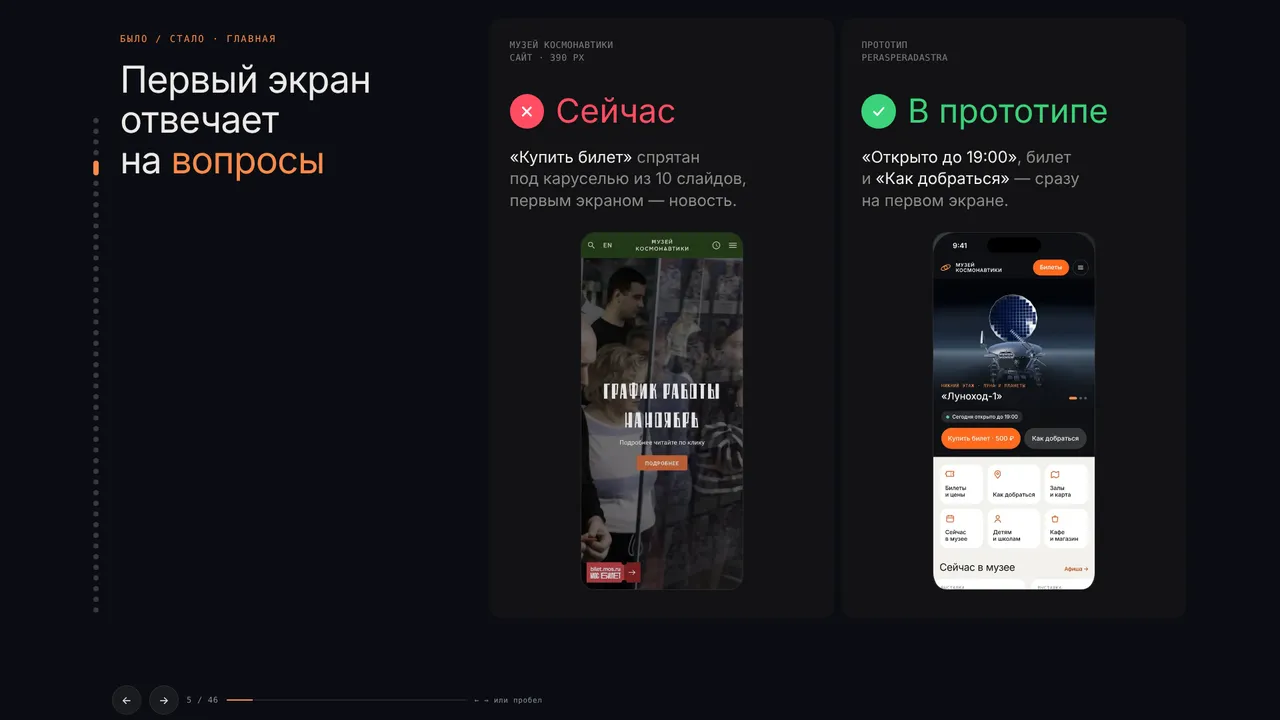
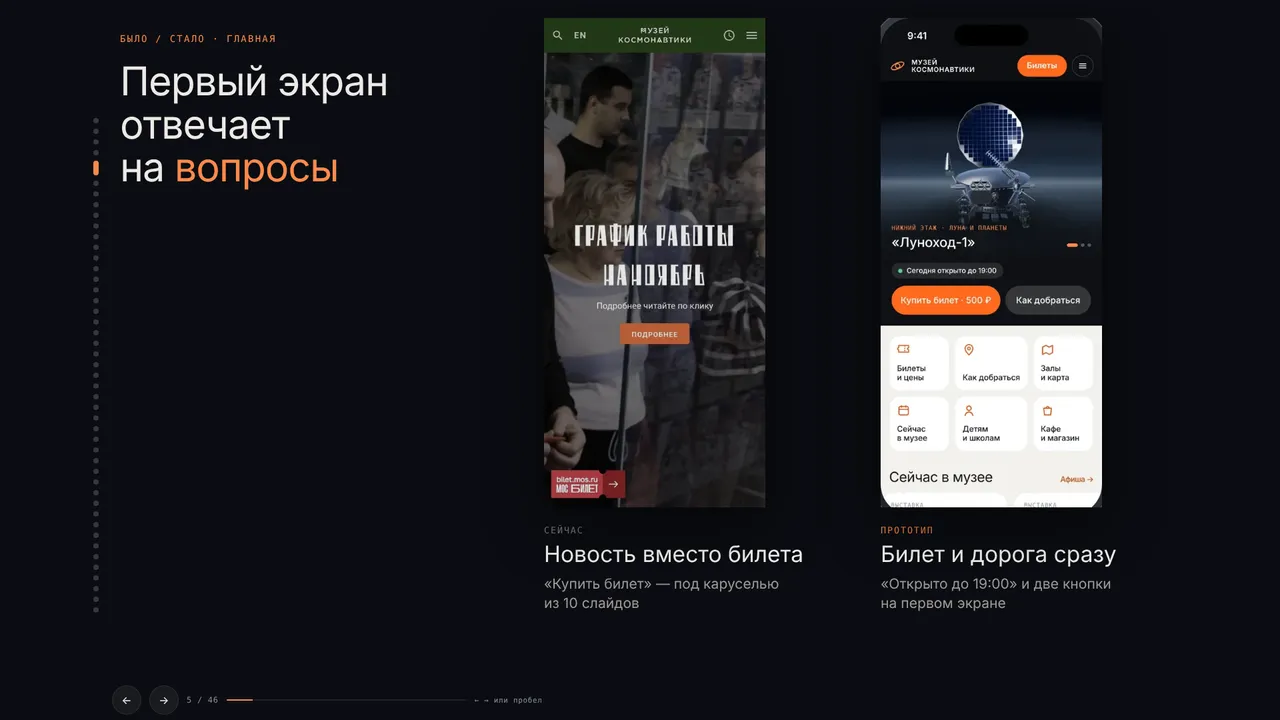
deck: было/стало без подложек — крупные экраны справа, подписи снизу
Claude-Session: https://claude.ai/code/session_01YJBZo4ctwu5nXZDRpFLjgU

Changed region(s): [[0.375, 0.0, 0.625, 0.8556], [0.6562, 0.0306, 0.875, 0.8556], [0.0938, 0.0917, 0.3125, 0.275]]

diff --git a/kosmo-museum/deck/index.html b/kosmo-museum/deck/index.html
@@ -198,20 +198,19 @@ h2{font-size:clamp(36px,3.1vw,60px);max-width:20ch}
 .qr{display:flex;align-items:center;gap:24px;margin-top:28px}.qr img{width:150px;height:150px;background:#fff;border-radius:16px;padding:10px}.qr span{font-size:20px;color:#C9C7C2}
 .logos{display:flex;flex-wrap:wrap;gap:12px;align-content:end;justify-content:flex-end}.logos span{padding:16px 24px;border:1px solid var(--line);border-radius:999px;font-size:clamp(17px,1.3vw,22px);color:#E3E0DA}
 
-/* v6: было/стало по шаблону «Плохо и хорошо с верхним отступом» */
-.ch:has(.cmp3){--u:min(1vw,1.78vh);padding:calc(1*var(--u)) 0 calc(4.2*var(--u))!important;gap:0}
-.cmp3{flex:1;min-height:0;display:grid;grid-template-columns:1.05fr 1fr 1fr;gap:calc(.5*var(--u));width:100%;max-width:none}
+/* v7: было/стало без подложек — крупные экраны справа, описание под каждым */
+.ch:has(.cmp3){--u:min(1vw,1.78vh);padding:calc(1*var(--u)) 0 calc(4.6*var(--u))!important;gap:0}
+.cmp3{flex:1;min-height:0;display:grid;grid-template-columns:minmax(0,.9fr) minmax(0,1.5fr);gap:calc(3*var(--u));width:100%;max-width:none}
 .cl{padding-top:calc(1.2*var(--u))}
-.cph{margin:calc(1.2*var(--u)) 0 0!important;font-size:calc(2.9*var(--u))!important;line-height:1.08!important;max-width:13ch!important}
-.cp{position:relative;border-radius:calc(1*var(--u));background:#121214;padding:calc(1.6*var(--u)) calc(1.6*var(--u)) 0;display:flex;flex-direction:column;min-height:0;overflow:hidden}
-.cpk{font:500 calc(.7*var(--u))/1.45 var(--m);letter-spacing:.04em;color:rgba(255,255,255,.45)}
-.cpt{display:flex;align-items:center;gap:calc(.9*var(--u));font:400 calc(2.6*var(--u))/1 var(--f);margin:calc(2.3*var(--u)) 0 calc(1.4*var(--u))}
-.cpt b{flex:none;width:calc(2.7*var(--u));height:calc(2.7*var(--u));border-radius:50%;display:grid;place-items:center}.cpt b svg{width:55%;height:55%}
-.cpt.bad{color:#FF4D62}.cpt.bad b{background:#FF4D62}.cpt.good{color:#3BD27A}.cpt.good b{background:#3BD27A}
-.cpd{margin:0;font-size:calc(1.25*var(--u));line-height:1.35;color:#8E8C88;max-width:30ch}.cpd w{color:#F2F0EC}
-.cpi{flex:1;min-height:0;display:flex;justify-content:center;align-items:flex-start;margin-top:calc(1.6*var(--u));padding-bottom:calc(2.2*var(--u))}
-.cpi img{height:100%;max-width:70%;object-fit:contain;object-position:top;border-radius:calc(1.1*var(--u));border:1px solid rgba(255,255,255,.1);display:block}
-.cp:nth-child(2) .cpi img{filter:saturate(.8) brightness(.9)}
+.cph{margin:calc(1.2*var(--u)) 0 0!important;font-size:calc(3.1*var(--u))!important;line-height:1.08!important;max-width:13ch!important}
+.cr{display:grid;grid-template-columns:1fr 1fr;gap:calc(2.4*var(--u));min-height:0}
+.cf{margin:0;display:flex;flex-direction:column;min-height:0}
+.cf img{flex:1;min-height:0;width:100%;object-fit:contain;object-position:left bottom;border-radius:0;display:block;filter:drop-shadow(0 24px 40px rgba(0,0,0,.5))}
+.cf:not(.ac) img{filter:saturate(.8) brightness(.9) drop-shadow(0 24px 40px rgba(0,0,0,.5))}
+.cf figcaption{margin-top:calc(1.4*var(--u));display:grid;gap:calc(.5*var(--u))}
+.cf .tag{font:500 calc(.7*var(--u)) var(--m);letter-spacing:.14em;text-transform:uppercase;color:rgba(255,255,255,.45)}.cf .tag.ac{color:var(--ac)}
+.cf b{font:400 calc(1.75*var(--u))/1.15 var(--f);color:#F2F0EC}
+.cf p{margin:0;font-size:calc(1.1*var(--u));line-height:1.4;color:#9E9B96;max-width:30ch}
 </style>
 
 <div class="wrap">
@@ -230,10 +229,10 @@ h2{font-size:clamp(36px,3.1vw,60px);max-width:20ch}
 <div class="kick">Что мешает на телефоне</div><h2>Пять проблем на экране 390 px</h2><div class="probs"><div class="prob"><b>9</b><span>пунктов в меню, и «Билетов» среди них нет</span><div class="vz vmenu"><i></i><i></i><i></i><i></i><i></i><i></i><i></i><i></i><i></i><i class="miss">Билеты?</i></div></div><div class="prob"><b>7</b><span>шагов и два сайта до оплаты</span><div class="vz vsteps"><i></i><i></i><i></i><i></i><i></i><i></i><i></i><em>→</em><i class="ok"></i><i class="ok"></i><i class="ok"></i><i class="ok"></i></div></div><div class="prob"><b>13</b><span>одинаковых кнопок, цены — в PDF</span><div class="vz vbtn"><i></i><i></i><i></i><i></i><i></i><i></i><i></i><i></i><i></i><i></i><i></i><i></i><i></i></div></div><div class="prob"><b>5,5 МБ</b><span>весит главная на телефоне</span><div class="vz vmb"><i style="width:94%"></i><i class="r" style="width:6%"></i></div><div class="vzl"><span>фото 5,2</span><span>0,3</span></div></div><div class="prob"><b>15</b><span>экранов в одной статье вместо каталога</span><div class="vz vscr"><i></i><i></i><i></i><i></i><i></i><i></i><i></i><i></i><i></i><i></i><i></i><i></i><i></i><i></i><i></i></div></div></div><p class="note">Проверено 14.11.2026 на 390×844, путь в кассе — до формы покупателя, без оплаты</p>
 </section>
 <section class="ch" data-cap="Сайт" data-wide="1">
-<div class="cmp3"><div class="cl"><div class="kick">Было / стало · главная</div><h2 class="cph">Первый экран отвечает<br>на <em>вопросы</em></h2></div><div class="cp"><div class="cpk">МУЗЕЙ КОСМОНАВТИКИ<br>САЙТ · 390 PX</div><div class="cpt bad"><b><svg viewBox="0 0 24 24"><path d="M7 7l10 10M17 7L7 17" stroke="#fff" stroke-width="2.4" stroke-linecap="round"/></svg></b>Сейчас</div><p class="cpd"><w>«Купить билет»</w> спрятан под каруселью из 10 слайдов, первым экраном — новость.</p><div class="cpi"><img src="img/site/m_home.webp" alt="Сейчас"></div></div><div class="cp"><div class="cpk">ПРОТОТИП<br>PERASPERADASTRA</div><div class="cpt good"><b><svg viewBox="0 0 24 24"><path d="M6 12.5l4 4 8-9" stroke="#fff" stroke-width="2.4" fill="none" stroke-linecap="round" stroke-linejoin="round"/></svg></b>В прототипе</div><p class="cpd"><w>«Открыто до 19:00»</w>, билет и <w>«Как добраться»</w> — сразу на первом экране.</p><div class="cpi"><img src="img/site/p2_home.webp" alt="В прототипе"></div></div></div>
+<div class="cmp3"><div class="cl"><div class="kick">Было / стало · главная</div><h2 class="cph">Первый экран отвечает<br>на <em>вопросы</em></h2></div><div class="cr"><figure class="cf "><img src="img/site/m_home.webp" alt="Новость вместо билета"><figcaption><span class="tag ">Сейчас</span><b>Новость вместо билета</b><p>«Купить билет» — под каруселью из 10 слайдов</p></figcaption></figure><figure class="cf ac"><img src="img/site/p2_home.webp" alt="Билет и дорога сразу"><figcaption><span class="tag ac">Прототип</span><b>Билет и дорога сразу</b><p>«Открыто до 19:00» и две кнопки на первом экране</p></figcaption></figure></div></div>
 </section>
 <section class="ch" data-cap="Сайт" data-wide="1">
-<div class="cmp3"><div class="cl"><div class="kick">Было / стало · билеты</div><h2 class="cph">Цены текстом,<br><em>а не в PDF</em></h2></div><div class="cp"><div class="cpk">МУЗЕЙ КОСМОНАВТИКИ<br>САЙТ · 390 PX</div><div class="cpt bad"><b><svg viewBox="0 0 24 24"><path d="M7 7l10 10M17 7L7 17" stroke="#fff" stroke-width="2.4" stroke-linecap="round"/></svg></b>Сейчас</div><p class="cpd"><w>13 одинаковых кнопок</w> «Купить билет», а цены и льготы — <w>в PDF</w>.</p><div class="cpi"><img src="img/site/m_tickets.webp" alt="Сейчас"></div></div><div class="cp"><div class="cpk">ПРОТОТИП<br>PERASPERADASTRA</div><div class="cpt good"><b><svg viewBox="0 0 24 24"><path d="M6 12.5l4 4 8-9" stroke="#fff" stroke-width="2.4" fill="none" stroke-linecap="round" stroke-linejoin="round"/></svg></b>В прототипе</div><p class="cpd"><w>Одна таблица цен</w> текстом и одна кнопка — <w>4 шага</w> до билета.</p><div class="cpi"><img src="img/site/p2_prices.webp" alt="В прототипе"></div></div></div>
+<div class="cmp3"><div class="cl"><div class="kick">Было / стало · билеты</div><h2 class="cph">Цены текстом,<br><em>а не в PDF</em></h2></div><div class="cr"><figure class="cf "><img src="img/site/m_tickets.webp" alt="13 одинаковых кнопок"><figcaption><span class="tag ">Сейчас</span><b>13 одинаковых кнопок</b><p>Страница на 7,5 экрана, цены — в PDF</p></figcaption></figure><figure class="cf ac"><img src="img/site/p2_prices.webp" alt="Одна таблица цен"><figcaption><span class="tag ac">Прототип</span><b>Одна таблица цен</b><p>500 ₽ взрослый, 300 ₽ пенсионный, школьники Москвы бесплатно</p></figcaption></figure></div></div>
 </section>
 <section class="ch" data-cap="Сайт" data-wide="1">
 <div class="kick">Путь до билета</div><h2>Короче путь —<br><em>больше билетов</em></h2><div class="split"><div class="nums"><div class="num"><b>7</b><span>шагов и два сайта<br>сейчас</span></div><div class="num ac"><b>4</b><span>шага на сайте музея<br>в прототипе</span></div></div><div class="rows"><div class="phs sm"><figure class="" style="--w:124px"><img src="img/site/m_home_scroll.webp" alt="главная" decoding="async"><figcaption>главная</figcaption></figure><figure class="" style="--w:124px"><img src="img/site/m_tickets.webp" alt="13 кнопок" decoding="async"><figcaption>13 кнопок</figcaption></figure><figure class="" style="--w:124px"><img src="img/site/m_mosbilet.webp" alt="другой сайт" decoding="async"><figcaption>другой сайт</figcaption></figure><figure class="" style="--w:124px"><img src="img/site/m_mb_schedule.webp" alt="сеанс" decoding="async"><figcaption>сеанс</figcaption></figure><figure class="" style="--w:124px"><img src="img/site/m_mb_categories.webp" alt="категория" decoding="async"><figcaption>категория</figcaption></figure><figure class="" style="--w:124px"><img src="img/site/m_mb_checkout.webp" alt="данные" decoding="async"><figcaption>данные</figcaption></figure></div><div class="phs sm"><figure class="new" style="--w:124px"><img src="img/site/p2_home.webp" alt="старт" decoding="async"><figcaption>старт</figcaption></figure><figure class="new" style="--w:124px"><img src="img/site/p2_t1.webp" alt="сеанс" decoding="async"><figcaption>сеанс</figcaption></figure><figure class="new" style="--w:124px"><img src="img/site/p2_t2.webp" alt="кто идёт" decoding="async"><figcaption>кто идёт</figcaption></figure><figure class="new" style="--w:124px"><img src="img/site/p2_t3.webp" alt="оплата" decoding="async"><figcaption>оплата</figcaption></figure><figure class="new" style="--w:124px"><img src="img/site/p2_t4.webp" alt="билет" decoding="async"><figcaption>билет</figcaption></figure></div></div></div>
@@ -242,7 +241,7 @@ h2{font-size:clamp(36px,3.1vw,60px);max-width:20ch}
 <div class="kick">Покупка в прототипе</div><h2>Четыре экрана<br><em>до билета</em></h2><div class="pay"><figure class="new"><img src="img/site/p2_t1.webp" alt="Когда придёшь"><figcaption><i>01</i><b>Когда придёшь</b><span>Дни недели и сеансы входа одним экраном</span></figcaption></figure><figure class="new"><img src="img/site/p2_t2.webp" alt="Кто идёт"><figcaption><i>02</i><b>Кто идёт</b><span>Категории и льготы с ценой, итог считается сразу</span></figcaption></figure><figure class="new"><img src="img/site/p2_t3.webp" alt="Оплата"><figcaption><i>03</i><b>Оплата</b><span>СБП, банковская карта или Пушкинская карта</span></figcaption></figure><figure class="new"><img src="img/site/p2_t4.webp" alt="Билет"><figcaption><i>04</i><b>Билет</b><span>QR-код, «Добавить в Wallet» и «В приложение»</span></figcaption></figure></div><p class="note">Прототип — демо: продавать на сайте можно, если у Мосбилета есть виджет или API</p>
 </section>
 <section class="ch" data-cap="Сайт" data-wide="1">
-<div class="cmp3"><div class="cl"><div class="kick">Было / стало · экспонаты</div><h2 class="cph">Своя страница<br>у <em>каждого экспоната</em></h2></div><div class="cp"><div class="cpk">МУЗЕЙ КОСМОНАВТИКИ<br>САЙТ · 390 PX</div><div class="cpt bad"><b><svg viewBox="0 0 24 24"><path d="M7 7l10 10M17 7L7 17" stroke="#fff" stroke-width="2.4" stroke-linecap="round"/></svg></b>Сейчас</div><p class="cpd">Экспонаты — <w>одна статья на 15 экранов</w>: без поиска, фильтров и своих страниц.</p><div class="cpi"><img src="img/site/m_exhibits.webp" alt="Сейчас"></div></div><div class="cp"><div class="cpk">ПРОТОТИП<br>PERASPERADASTRA</div><div class="cpt good"><b><svg viewBox="0 0 24 24"><path d="M6 12.5l4 4 8-9" stroke="#fff" stroke-width="2.4" fill="none" stroke-linecap="round" stroke-linejoin="round"/></svg></b>В прототипе</div><p class="cpd"><w>Карточка у каждого экспоната</w>: зал, этаж, «Показать на схеме» и «Слушать в гиде».</p><div class="cpi"><img src="img/site/p2_exhibit.webp" alt="В прототипе"></div></div></div>
+<div class="cmp3"><div class="cl"><div class="kick">Было / стало · экспонаты</div><h2 class="cph">Своя страница<br>у <em>каждого экспоната</em></h2></div><div class="cr"><figure class="cf "><img src="img/site/m_exhibits.webp" alt="Статья на 15 экранов"><figcaption><span class="tag ">Сейчас</span><b>Статья на 15 экранов</b><p>Нет поиска, фильтров и страниц экспонатов</p></figcaption></figure><figure class="cf ac"><img src="img/site/p2_exhibit.webp" alt="Карточка экспоната"><figcaption><span class="tag ac">Прототип</span><b>Карточка экспоната</b><p>Зал, этаж, «Показать на схеме», «Слушать в гиде»</p></figcaption></figure></div></div>
 </section>
 <section class="ch" data-cap="Сайт" data-wide="1">
 <div class="kick">Что делать</div><h2>Начать можно<br><em>без редизайна</em></h2><div class="road"><div class="rcol"><i>1–2 недели</i><b>Починить путь</b><ul><li>«Билеты» в меню</li><li>Цены текстом</li><li>Лёгкая главная</li></ul></div><div class="rcol"><i>1–2 месяца</i><b>Перестроить страницы</b><ul><li>Страница «Билеты»</li><li>Афиша «Сегодня»</li><li>Страницы экспонатов</li></ul></div><div class="rcol"><i>Дальше</i><b>Один сайт</b><ul><li>Адаптивная версия</li><li>Покупка на сайте</li><li>3D-карта залов</li></ul></div></div>
